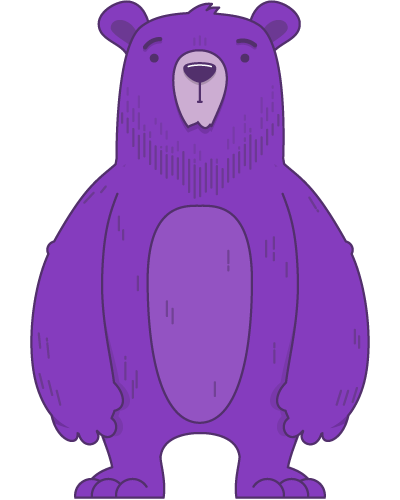
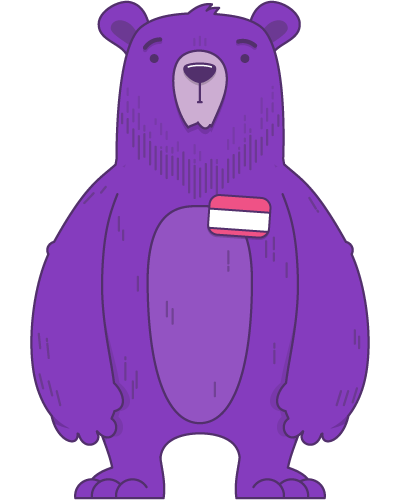
remove jetpacktocat

diff --git a/client/assets/styles/scss/pages/welcome.scss b/client/assets/styles/scss/pages/welcome.scss
@@ -10,21 +10,9 @@
   .img {
     display: block;
     left: 0;
-    opacity: 0;
     margin: 0 auto;
     right: 0;
     position: absolute;
-
-    &.in {
-      opacity: 1;
-    }
-  }
-
-  .jetpacktocat {
-    top: 30px;
-  }
-
-  .runnabear {
     top: 60px;
   }
 
